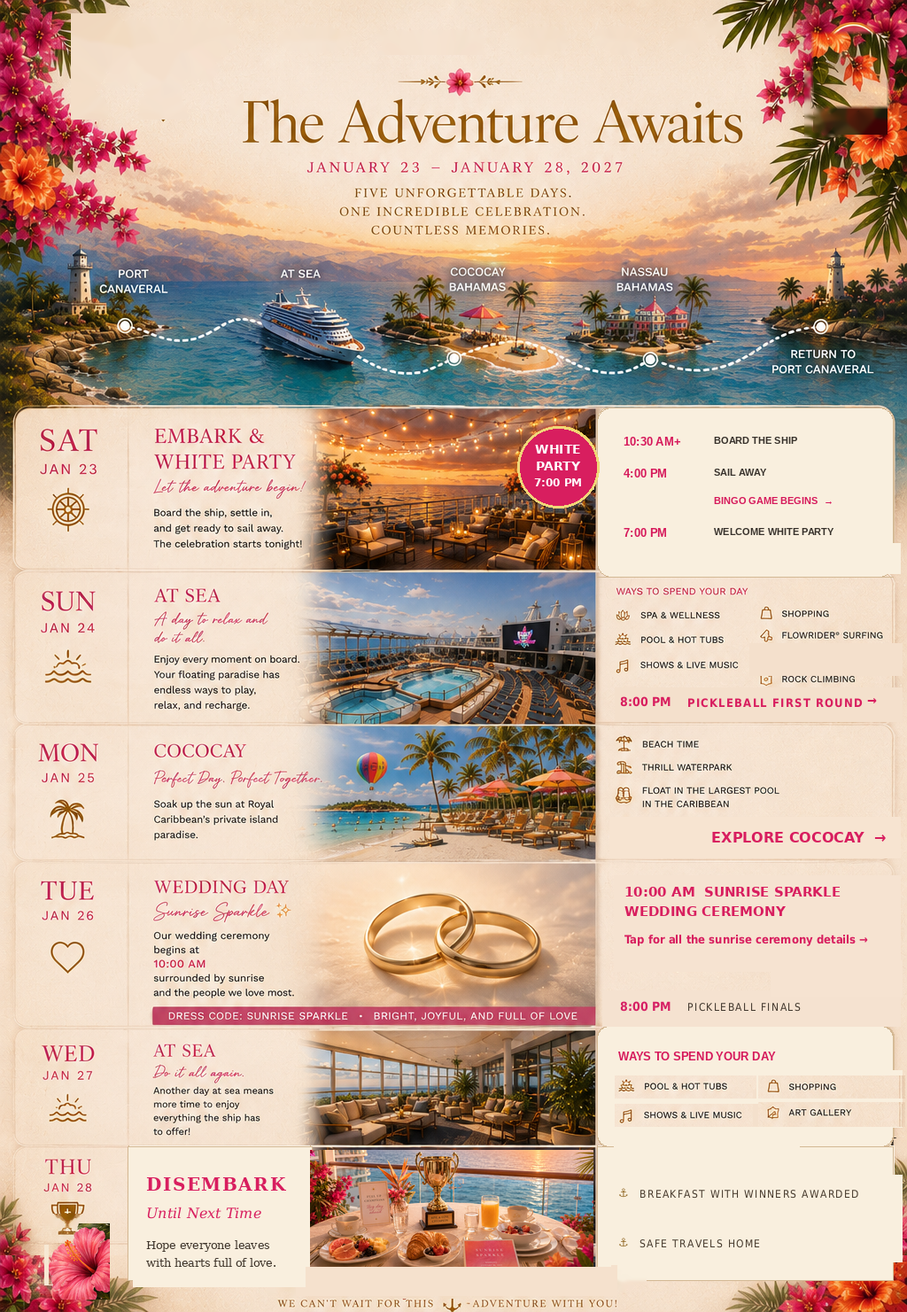
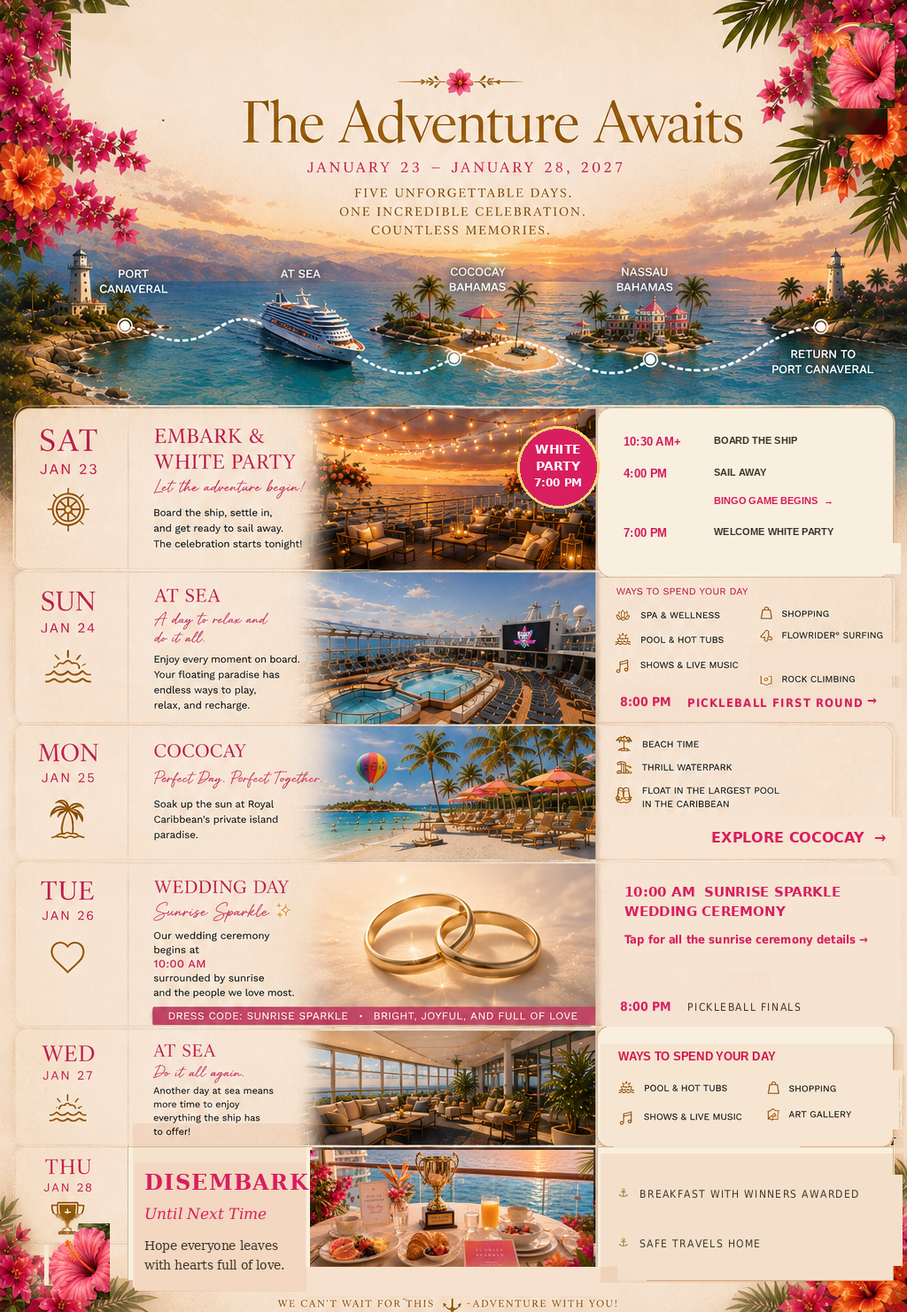
v37editFAQ

diff --git a/faq.html b/faq.html
@@ -1,5 +1,5 @@
 <!doctype html><html lang="en"><head><meta charset="utf-8"><meta name="viewport" content="width=device-width,initial-scale=1"><title>FAQ | Julia & Wesley</title>
-<link rel="preconnect" href="https://fonts.googleapis.com"><link rel="preconnect" href="https://fonts.gstatic.com" crossorigin><link href="https://fonts.googleapis.com/css2?family=Great+Vibes&family=Playfair+Display:ital,wght@0,600;0,700;1,600&display=swap" rel="stylesheet"><link rel="stylesheet" href="css/site.css?v=36">
+<link rel="preconnect" href="https://fonts.googleapis.com"><link rel="preconnect" href="https://fonts.gstatic.com" crossorigin><link href="https://fonts.googleapis.com/css2?family=Great+Vibes&family=Playfair+Display:ital,wght@0,600;0,700;1,600&display=swap" rel="stylesheet"><link rel="stylesheet" href="css/site.css?v=37">
 </head><body class="faq-body">
 <nav class="site-nav" aria-label="Primary navigation">
   <a class="sn-logo" href="index.html?skip=1"><span class="word">HARRISONS</span><span class="script">Set Sail</span><span class="anch">⚓</span></a>
@@ -19,6 +19,7 @@
   <div class="faq-cats">
     <a href="#wp" class="fc fc-pink">🪩<span>White Party FAQ</span></a>
     <a href="#pb" class="fc fc-orange">🏓<span>Pickleball FAQ</span></a>
+    <a href="#bg" class="fc fc-gold">Ⓑ<span>Bingo FAQ</span></a>
     <a href="#cr" class="fc fc-rose">🛳<span>Cruise FAQ</span></a>
     <a href="#ask" class="fc fc-gold">❓<span>Ask Your Own Question</span></a>
   </div>
@@ -26,10 +27,10 @@
   <div class="faq-cols">
     <section id="wp">
       <h2 class="fq-h fq-pink">🪩 White Party FAQ</h2>
-      <details><summary>What time is the White Party?</summary><p>7:00 PM on sail-away night — Saturday, January 23 — right after the bingo game kicks off. Board, settle in, and come celebrate!</p></details>
+      <details><summary>What time is the White Party?</summary><p>7:00 PM on sail-away night — Saturday, January 23. Board, settle in, and come celebrate!</p></details>
       <details><summary>Where is it located on the ship?</summary><p>On board Harmony of the Seas — the exact venue will be shared closer to sailing and in the daily cruise planner.</p></details>
       <details><summary>Is there a theme or dress code?</summary><p>Yes — wear white! Crisp, breezy, all-white everything. Linen, lace, sparkle... as long as it's white, you're perfect.</p></details>
-      <details><summary>Will there be food and drinks?</summary><p>Absolutely — dinner is included on the ship that evening, and drinks will be flowing at the party.</p></details>
+      <details><summary>Will there be food and drinks?</summary><p>Absolutely. Dinner is included on the ship that evening, and a welcome drink will be provided.</p></details>
       <details><summary>Anything else we should know?</summary><p>Comfortable shoes! It's night one of five — pace yourselves, champions.</p></details>
     </section>
     <section id="pb">
@@ -42,17 +43,30 @@
       <details><summary>What happens if it rains?</summary><p>We play on! If weather closes the court, matches move to later in the cruise — the bracket travels with us.</p></details>
       <details><summary>How do I sign up?</summary><p>On the <a href="pickleball.html">Pickleball page</a> — fill in the Register as a Team form (one name is enough).</p></details>
     </section>
+    <section id="bg">
+      <h2 class="fq-h fq-gold2">Ⓑ Bingo FAQ</h2>
+      <details><summary>I hate games — do I have to play?</summary><p><strong>Wesley:</strong> No, of course not. Who wants to share personal information with people?</p><p><strong>Julia:</strong> Absolutely everyone plays.</p><p>So pick whoever's answer resonates with you most to follow. 😄</p></details>
+      <details><summary>When does the game start?</summary><p>The game goes live once we set sail! Play anytime during the cruise — matches update in real time on the leaderboard.</p></details>
+      <details><summary>How do I submit my fact?</summary><p>Your fun fact IS your entry — share it in the "Your Bingo Clue" box when you RSVP. One surprising or funny fact about yourself is all it takes.</p></details>
+      <details><summary>Can I change my answer?</summary><p>Yes — you can change a guess any time before it's checked. Wrong guesses are part of the fun, so keep meeting people and keep playing!</p></details>
+      <details><summary>What if I can't find someone?</summary><p>Ask around! Every fact is a conversation starter. Introduce yourself, ask questions, and don't give your own fact away too easily — that's the whole game.</p></details>
+      <details><summary>How are points calculated?</summary><p>Every correct match earns points, and the more you match, the higher you climb the leaderboard. 100% virtual, no paper — and bragging rights are everything.</p></details>
+    </section>
     <section id="cr">
       <h2 class="fq-h fq-rose">🛳 Cruise FAQ</h2>
+      <details><summary>Can I invite my family, friend, or frenemy?</summary><p>Absolutely! We'd love for your people to take advantage of the negotiated cruise rate too. Invite your mom to help with the kids, tell someone you have been dying to take a vacation with, or convince your favorite friend (or frenemy) that they suddenly need a Caribbean vacation.</p><p>A note that because our wedding events have limited capacity, though, only guests specifically invited to the wedding will be able to attend wedding-related events.</p></details>
       <details><summary>How do I book my cabin?</summary><p>Use the Booking Link on the <a href="travel.html">Travel page</a> — cabins are reserved through our travel advisor, Aligned Journeys, who will walk you through everything.</p></details>
       <details><summary>What's included in our cruise fare?</summary><p>Accommodations, meals, entertainment, pools and whirlpools, Broadway, ice skating, and AquaTheater shows, kids and teens programs, and the fitness center. Not included: specialty dining, spa services, alcohol, shore excursions, and internet.</p></details>
       <details><summary>What is the payment schedule?</summary><p>A $250 per-person deposit secures your cabin, and final payment is due 10/12/2026.</p></details>
       <details><summary>Can I book without a deposit?</summary><p>A deposit is required to secure your cabin — but watch for Royal Caribbean's reduced-deposit promotions; our advisor will apply any that are running.</p></details>
       <details><summary>Are payments refundable?</summary><p>Payment and cancellation terms follow the cruise line and Aligned Journeys booking agreement — exact terms are shown during booking and may vary by fare type.</p></details>
       <details><summary>Can I upgrade my room later?</summary><p>Upgrades depend on availability and current pricing — contact Aligned Journeys and they'll find you options.</p></details>
-      <details><summary>Can I invite more people to come?</summary><p>Absolutely! Invite your mom, bring another family, or a friend who'd love a Caribbean getaway — everyone can use our group rate. Just note: only guests named on the wedding invitation can attend the ceremony and private wedding events. Everyone else still gets an entire ship and a tropical vacation!</p></details>
       <details><summary>Can I book excursions through you?</summary><p>Excursions are purchased through Royal Caribbean once your reservation is connected to your cruise account.</p></details>
       <details><summary>Do kids sail free?</summary><p>Kids Sail Free and other promotions may apply depending on dates and eligibility — your advisor will apply the best eligible offer.</p></details>
+    </section>
+    <section id="pg">
+      <h2 class="fq-h fq-gold2">💬 Popular Guest FAQ</h2>
+      <p class="pg-note">We'll post and share questions that are being commonly asked — so please check back! Submitted questions will also be answered individually.</p>
     </section>
   </div>
 

diff --git a/bingo.html b/bingo.html
@@ -1,20 +1,12 @@
-<!doctype html><html lang="en"><head><meta charset="utf-8"><meta name="viewport" content="width=device-width,initial-scale=1"><title>Bingo | Julia & Wesley</title><link rel="preconnect" href="https://fonts.googleapis.com"><link rel="preconnect" href="https://fonts.gstatic.com" crossorigin><link href="https://fonts.googleapis.com/css2?family=Great+Vibes&family=Playfair+Display:ital,wght@0,600;0,700;1,600&display=swap" rel="stylesheet"><link rel="stylesheet" href="css/site.css?v=36"></head><body>
+<!doctype html><html lang="en"><head><meta charset="utf-8"><meta name="viewport" content="width=device-width,initial-scale=1"><title>Bingo | Julia & Wesley</title><link rel="preconnect" href="https://fonts.googleapis.com"><link rel="preconnect" href="https://fonts.gstatic.com" crossorigin><link href="https://fonts.googleapis.com/css2?family=Great+Vibes&family=Playfair+Display:ital,wght@0,600;0,700;1,600&display=swap" rel="stylesheet"><link rel="stylesheet" href="css/site.css?v=37"></head><body>
 <nav class="site-nav" aria-label="Primary navigation">
   <a class="sn-logo" href="index.html?skip=1"><span class="word">HARRISONS</span><span class="script">Set Sail</span><span class="anch">⚓</span></a>
   <div class="sn-links"><a href="index.html?skip=1">Home</a><a href="our-story.html">Our Story</a><a href="adventure.html" aria-current="page">The Adventure</a><a href="explore.html">Explore</a><a href="travel.html">Travel</a><a href="faq.html">FAQ</a><a href="rsvp.html">RSVP</a></div>
   <a class="sn-badge" href="index.html?skip=1" aria-label="Home">⚓</a>
 </nav><main class="page-shell"><img class="approved-page" src="assets/approved/bingo-v2.png" alt="Bingo approved design">
-<div class="faq-hotspots" aria-label="Bingo FAQs">
-<button class="pb-faq" data-q="When does the game start?" data-a="The game goes live once we set sail! Play anytime during the cruise — matches update in real time on the leaderboard." style="left:4.2%;top:97.3%;width:17.2%;height:1.9%"></button>
-<button class="pb-faq" data-q="How do I submit my fact?" data-a="Your fun fact IS your entry — share it in the 'Your Bingo Clue' box when you RSVP. One surprising or funny fact about yourself is all it takes." style="left:22.5%;top:97.3%;width:17.2%;height:1.9%"></button>
-<button class="pb-faq" data-q="Can I change my answer?" data-a="Yes — you can change a guess any time before it's checked. Wrong guesses are part of the fun, so keep meeting people and keep playing!" style="left:40.8%;top:97.3%;width:17.2%;height:1.9%"></button>
-<button class="pb-faq" data-q="What if I can't find someone?" data-a="Ask around! Every fact is a conversation starter. Introduce yourself, ask questions, and don't give your own fact away too easily — that's the whole game." style="left:59%;top:97.3%;width:17.2%;height:1.9%"></button>
-<button class="pb-faq" data-q="How are points calculated?" data-a="Every correct match earns points, and the more you match, the higher you climb the leaderboard. 100% virtual, no paper — and bragging rights are everything." style="left:77.3%;top:97.3%;width:17.4%;height:1.9%"></button>
-</div>
-<div class="faq-pop" id="faq-pop" hidden><button class="faq-close" aria-label="Close answer">×</button><h3></h3><p></p></div>
-<script>
-(function(){var pop=document.getElementById('faq-pop'),q=pop.querySelector('h3'),a=pop.querySelector('p');
-document.querySelectorAll('.pb-faq').forEach(function(b){b.addEventListener('click',function(){q.textContent=b.dataset.q;a.textContent=b.dataset.a;pop.hidden=false;});});
-pop.querySelector('.faq-close').addEventListener('click',function(){pop.hidden=true;});})();
-</script>
+<a class="hotspot" aria-label="When does the game start? — see the FAQ page" href="faq.html#bg" style="left:4.2%;top:97.3%;width:17.2%;height:1.9%"></a>
+<a class="hotspot" aria-label="How do I submit my fact? — see the FAQ page" href="faq.html#bg" style="left:22.5%;top:97.3%;width:17.2%;height:1.9%"></a>
+<a class="hotspot" aria-label="Can I change my answer? — see the FAQ page" href="faq.html#bg" style="left:40.8%;top:97.3%;width:17.2%;height:1.9%"></a>
+<a class="hotspot" aria-label="What if I can't find someone? — see the FAQ page" href="faq.html#bg" style="left:59%;top:97.3%;width:17.2%;height:1.9%"></a>
+<a class="hotspot" aria-label="How are points calculated? — see the FAQ page" href="faq.html#bg" style="left:77.3%;top:97.3%;width:17.4%;height:1.9%"></a>
 </main></body></html>

diff --git a/wedding-day.html b/wedding-day.html
@@ -1,4 +1,4 @@
-<!doctype html><html lang="en"><head><meta charset="utf-8"><meta name="viewport" content="width=device-width,initial-scale=1"><title>Wedding Day | Julia & Wesley</title><link rel="preconnect" href="https://fonts.googleapis.com"><link rel="preconnect" href="https://fonts.gstatic.com" crossorigin><link href="https://fonts.googleapis.com/css2?family=Great+Vibes&family=Playfair+Display:ital,wght@0,600;0,700;1,600&display=swap" rel="stylesheet"><link rel="stylesheet" href="css/site.css?v=36"></head><body>
+<!doctype html><html lang="en"><head><meta charset="utf-8"><meta name="viewport" content="width=device-width,initial-scale=1"><title>Wedding Day | Julia & Wesley</title><link rel="preconnect" href="https://fonts.googleapis.com"><link rel="preconnect" href="https://fonts.gstatic.com" crossorigin><link href="https://fonts.googleapis.com/css2?family=Great+Vibes&family=Playfair+Display:ital,wght@0,600;0,700;1,600&display=swap" rel="stylesheet"><link rel="stylesheet" href="css/site.css?v=37"></head><body>
 <nav class="site-nav" aria-label="Primary navigation">
   <a class="sn-logo" href="index.html?skip=1"><span class="word">HARRISONS</span><span class="script">Set Sail</span><span class="anch">⚓</span></a>
   <div class="sn-links"><a href="index.html?skip=1">Home</a><a href="our-story.html">Our Story</a><a href="adventure.html" aria-current="page">The Adventure</a><a href="explore.html">Explore</a><a href="travel.html">Travel</a><a href="faq.html">FAQ</a><a href="rsvp.html">RSVP</a></div>
@@ -6,4 +6,4 @@
 </nav><main class="page-shell"><img class="approved-page" src="assets/approved/wedding-day-v2.png" alt="Wedding Day approved design"><a class="hotspot" aria-label="Room service — see how it works (Royal Caribbean)" href="https://www.royalcaribbean.com/cruise-dining/room-service" target="_blank" rel="noopener" style="left:54.8%;top:47.5%;width:14%;height:2.1%"></a>
 <a class="hotspot" aria-label="Room service menu and how it works (Royal Caribbean)" href="https://www.royalcaribbean.com/cruise-dining/room-service" target="_blank" rel="noopener" style="left:20%;top:94.8%;width:18.5%;height:2.1%"></a>
 </main>
-<p class="wd-note">👠 A note for the ladies: we recommend low heels or comfortable platform shoes — sunrise decks and stilettos don't mix!</p></body></html>
+<p class="wd-note">A note for the ladies: we recommend low heels or comfortable platform shoes — sunrise decks and stilettos don't mix!</p></body></html>

diff --git a/cococay.html b/cococay.html
@@ -1,4 +1,4 @@
-<!doctype html><html lang="en"><head><meta charset="utf-8"><meta name="viewport" content="width=device-width,initial-scale=1"><title>Perfect Day at CocoCay | Julia & Wesley</title><link rel="preconnect" href="https://fonts.googleapis.com"><link rel="preconnect" href="https://fonts.gstatic.com" crossorigin><link href="https://fonts.googleapis.com/css2?family=Great+Vibes&family=Playfair+Display:ital,wght@0,600;0,700;1,600&display=swap" rel="stylesheet"><link rel="stylesheet" href="css/site.css?v=36"></head><body>
+<!doctype html><html lang="en"><head><meta charset="utf-8"><meta name="viewport" content="width=device-width,initial-scale=1"><title>Perfect Day at CocoCay | Julia & Wesley</title><link rel="preconnect" href="https://fonts.googleapis.com"><link rel="preconnect" href="https://fonts.gstatic.com" crossorigin><link href="https://fonts.googleapis.com/css2?family=Great+Vibes&family=Playfair+Display:ital,wght@0,600;0,700;1,600&display=swap" rel="stylesheet"><link rel="stylesheet" href="css/site.css?v=37"></head><body>
 <nav class="site-nav" aria-label="Primary navigation">
   <a class="sn-logo" href="index.html?skip=1"><span class="word">HARRISONS</span><span class="script">Set Sail</span><span class="anch">⚓</span></a>
   <div class="sn-links"><a href="index.html?skip=1">Home</a><a href="our-story.html">Our Story</a><a href="adventure.html" aria-current="page">The Adventure</a><a href="explore.html">Explore</a><a href="travel.html">Travel</a><a href="faq.html">FAQ</a><a href="rsvp.html">RSVP</a></div>

diff --git a/pickleball.html b/pickleball.html
@@ -1,4 +1,4 @@
-<!doctype html><html lang="en"><head><meta charset="utf-8"><meta name="viewport" content="width=device-width,initial-scale=1"><title>The Dink Before I Do | Julia & Wesley</title><link rel="preconnect" href="https://fonts.googleapis.com"><link rel="preconnect" href="https://fonts.gstatic.com" crossorigin><link href="https://fonts.googleapis.com/css2?family=Great+Vibes&family=Playfair+Display:ital,wght@0,600;0,700;1,600&display=swap" rel="stylesheet"><link rel="stylesheet" href="css/site.css?v=36"></head><body>
+<!doctype html><html lang="en"><head><meta charset="utf-8"><meta name="viewport" content="width=device-width,initial-scale=1"><title>The Dink Before I Do | Julia & Wesley</title><link rel="preconnect" href="https://fonts.googleapis.com"><link rel="preconnect" href="https://fonts.gstatic.com" crossorigin><link href="https://fonts.googleapis.com/css2?family=Great+Vibes&family=Playfair+Display:ital,wght@0,600;0,700;1,600&display=swap" rel="stylesheet"><link rel="stylesheet" href="css/site.css?v=37"></head><body>
 <nav class="site-nav" aria-label="Primary navigation">
   <a class="sn-logo" href="index.html?skip=1"><span class="word">HARRISONS</span><span class="script">Set Sail</span><span class="anch">⚓</span></a>
   <div class="sn-links"><a href="index.html?skip=1">Home</a><a href="our-story.html">Our Story</a><a href="adventure.html" aria-current="page">The Adventure</a><a href="explore.html">Explore</a><a href="travel.html">Travel</a><a href="faq.html">FAQ</a><a href="rsvp.html">RSVP</a></div>

diff --git a/explore.html b/explore.html
@@ -1,4 +1,4 @@
-<!doctype html><html lang="en"><head><meta charset="utf-8"><meta name="viewport" content="width=device-width,initial-scale=1"><title>Explore the Ship | Julia & Wesley</title><link rel="preconnect" href="https://fonts.googleapis.com"><link rel="preconnect" href="https://fonts.gstatic.com" crossorigin><link href="https://fonts.googleapis.com/css2?family=Great+Vibes&family=Playfair+Display:ital,wght@0,600;0,700;1,600&display=swap" rel="stylesheet"><link rel="stylesheet" href="css/site.css?v=36"></head><body>
+<!doctype html><html lang="en"><head><meta charset="utf-8"><meta name="viewport" content="width=device-width,initial-scale=1"><title>Explore the Ship | Julia & Wesley</title><link rel="preconnect" href="https://fonts.googleapis.com"><link rel="preconnect" href="https://fonts.gstatic.com" crossorigin><link href="https://fonts.googleapis.com/css2?family=Great+Vibes&family=Playfair+Display:ital,wght@0,600;0,700;1,600&display=swap" rel="stylesheet"><link rel="stylesheet" href="css/site.css?v=37"></head><body>
 <nav class="site-nav" aria-label="Primary navigation">
   <a class="sn-logo" href="index.html?skip=1"><span class="word">HARRISONS</span><span class="script">Set Sail</span><span class="anch">⚓</span></a>
   <div class="sn-links"><a href="index.html?skip=1">Home</a><a href="our-story.html">Our Story</a><a href="adventure.html">The Adventure</a><a href="explore.html" aria-current="page">Explore</a><a href="travel.html">Travel</a><a href="faq.html">FAQ</a><a href="rsvp.html">RSVP</a></div>

diff --git a/our-story.html b/our-story.html
@@ -1,4 +1,4 @@
-<!doctype html><html lang="en"><head><meta charset="utf-8"><meta name="viewport" content="width=device-width,initial-scale=1"><title>Our Story | Julia & Wesley</title><link rel="preconnect" href="https://fonts.googleapis.com"><link rel="preconnect" href="https://fonts.gstatic.com" crossorigin><link href="https://fonts.googleapis.com/css2?family=Great+Vibes&family=Playfair+Display:ital,wght@0,600;0,700;1,600&display=swap" rel="stylesheet"><link rel="stylesheet" href="css/site.css?v=36"></head><body>
+<!doctype html><html lang="en"><head><meta charset="utf-8"><meta name="viewport" content="width=device-width,initial-scale=1"><title>Our Story | Julia & Wesley</title><link rel="preconnect" href="https://fonts.googleapis.com"><link rel="preconnect" href="https://fonts.gstatic.com" crossorigin><link href="https://fonts.googleapis.com/css2?family=Great+Vibes&family=Playfair+Display:ital,wght@0,600;0,700;1,600&display=swap" rel="stylesheet"><link rel="stylesheet" href="css/site.css?v=37"></head><body>
 <nav class="site-nav" aria-label="Primary navigation">
   <a class="sn-logo" href="index.html?skip=1"><span class="word">HARRISONS</span><span class="script">Set Sail</span><span class="anch">⚓</span></a>
   <div class="sn-links"><a href="index.html?skip=1">Home</a><a href="our-story.html" aria-current="page">Our Story</a><a href="adventure.html">The Adventure</a><a href="explore.html">Explore</a><a href="travel.html">Travel</a><a href="faq.html">FAQ</a><a href="rsvp.html">RSVP</a></div>

diff --git a/adventure.html b/adventure.html
@@ -1,4 +1,4 @@
-<!doctype html><html lang="en"><head><meta charset="utf-8"><meta name="viewport" content="width=device-width,initial-scale=1"><title>The Adventure | Julia & Wesley</title><link rel="preconnect" href="https://fonts.googleapis.com"><link rel="preconnect" href="https://fonts.gstatic.com" crossorigin><link href="https://fonts.googleapis.com/css2?family=Great+Vibes&display=swap" rel="stylesheet"><link rel="stylesheet" href="css/site.css?v=36"></head><body>
+<!doctype html><html lang="en"><head><meta charset="utf-8"><meta name="viewport" content="width=device-width,initial-scale=1"><title>The Adventure | Julia & Wesley</title><link rel="preconnect" href="https://fonts.googleapis.com"><link rel="preconnect" href="https://fonts.gstatic.com" crossorigin><link href="https://fonts.googleapis.com/css2?family=Great+Vibes&display=swap" rel="stylesheet"><link rel="stylesheet" href="css/site.css?v=37"></head><body>
 <nav class="site-nav" aria-label="Primary navigation">
   <a class="sn-logo" href="index.html?skip=1"><span class="word">HARRISONS</span><span class="script">Set Sail</span><span class="anch">⚓</span></a>
   <div class="sn-links"><a href="index.html?skip=1">Home</a><a href="our-story.html">Our Story</a><a href="adventure.html" aria-current="page">The Adventure</a><a href="explore.html">Explore</a><a href="travel.html">Travel</a><a href="faq.html">FAQ</a><a href="rsvp.html">RSVP</a></div>

diff --git a/css/site.css b/css/site.css
@@ -856,3 +856,19 @@ button.hotspot{background:none;border:0;padding:0;cursor:pointer}
 .faq-foot .fscript{font:400 22px "Great Vibes",cursive;color:#c2185b}
 @media(max-width:860px){.faq-cols{grid-template-columns:1fr}.faq-cats{grid-template-columns:repeat(2,1fr)}.fa-row{grid-template-columns:1fr}}
 .wd-note{max-width:1600px;margin:0 auto;background:#fbe3ec;text-align:center;padding:14px 18px;font:600 15px/1.5 Arial,sans-serif;color:#8f2747}
+
+/* ============================================================
+   v37 — FAQ additions, wedding-day note aesthetic,
+   explore neighborhood buttons clickable
+   ============================================================ */
+.fq-gold2{color:#a97d1f}
+.pg-note{font:italic 400 14px/1.6 Georgia,serif;color:#5d4a2e;margin:4px 2px}
+.faq-hero img{object-position:50% 30%}
+
+/* wedding-day note: match page theme */
+.wd-note{background:#f8f1e2;padding:20px 18px 26px;text-align:center;font:italic 500 clamp(15px,1.6vw,18px)/1.6 Georgia,serif;color:#b3403a}
+.wd-note::before{content:"— ✿ —";display:block;font-style:normal;color:#c9932f;letter-spacing:6px;margin-bottom:8px;font-size:14px}
+
+/* explore: neighborhood labels must sit above the drag stage */
+.neighborhood{z-index:24 !important}
+.ship-interactive{z-index:5}

diff --git a/rsvp.html b/rsvp.html
@@ -1,4 +1,4 @@
-<!doctype html><html lang="en"><head><meta charset="utf-8"><meta name="viewport" content="width=device-width,initial-scale=1"><title>RSVP | Julia & Wesley</title><link rel="preconnect" href="https://fonts.googleapis.com"><link rel="preconnect" href="https://fonts.gstatic.com" crossorigin><link href="https://fonts.googleapis.com/css2?family=Great+Vibes&family=Playfair+Display:ital,wght@0,600;0,700;1,600&display=swap" rel="stylesheet"><link rel="stylesheet" href="css/site.css?v=36"></head>
+<!doctype html><html lang="en"><head><meta charset="utf-8"><meta name="viewport" content="width=device-width,initial-scale=1"><title>RSVP | Julia & Wesley</title><link rel="preconnect" href="https://fonts.googleapis.com"><link rel="preconnect" href="https://fonts.gstatic.com" crossorigin><link href="https://fonts.googleapis.com/css2?family=Great+Vibes&family=Playfair+Display:ital,wght@0,600;0,700;1,600&display=swap" rel="stylesheet"><link rel="stylesheet" href="css/site.css?v=37"></head>
 <body class="rsvp2-body">
 <nav class="site-nav" aria-label="Primary navigation">
   <a class="sn-logo" href="index.html?skip=1"><span class="word">HARRISONS</span><span class="script">Set Sail</span><span class="anch">⚓</span></a>

diff --git a/travel.html b/travel.html
@@ -1,5 +1,5 @@
 <!doctype html><html lang="en"><head><meta charset="utf-8"><meta name="viewport" content="width=device-width,initial-scale=1"><title>Travel & Booking | Julia & Wesley</title>
-<link rel="preconnect" href="https://fonts.googleapis.com"><link rel="preconnect" href="https://fonts.gstatic.com" crossorigin><link href="https://fonts.googleapis.com/css2?family=Great+Vibes&family=Playfair+Display:ital,wght@0,600;0,700;1,600&display=swap" rel="stylesheet"><link rel="stylesheet" href="css/site.css?v=36">
+<link rel="preconnect" href="https://fonts.googleapis.com"><link rel="preconnect" href="https://fonts.gstatic.com" crossorigin><link href="https://fonts.googleapis.com/css2?family=Great+Vibes&family=Playfair+Display:ital,wght@0,600;0,700;1,600&display=swap" rel="stylesheet"><link rel="stylesheet" href="css/site.css?v=37">
 </head><body class="tv-body">
 <nav class="site-nav" aria-label="Primary navigation">
   <a class="sn-logo" href="index.html?skip=1"><span class="word">HARRISONS</span><span class="script">Set Sail</span><span class="anch">⚓</span></a>

diff --git a/index.html b/index.html
@@ -1,7 +1,7 @@
 <!doctype html><html lang="en"><head><meta charset="utf-8"><meta name="viewport" content="width=device-width,initial-scale=1"><title>Julia & Wesley</title>
 <link rel="preconnect" href="https://fonts.googleapis.com"><link rel="preconnect" href="https://fonts.gstatic.com" crossorigin>
 <link href="https://fonts.googleapis.com/css2?family=Great+Vibes&family=Playfair+Display:ital,wght@0,600;0,700;1,600&display=swap" rel="stylesheet">
-<link rel="stylesheet" href="css/site.css?v=36"></head><body>
+<link rel="stylesheet" href="css/site.css?v=37"></head><body>
 
 <section class="gate3" id="welcome-gate" aria-labelledby="welcome-title">
   <div class="gate3-card">
